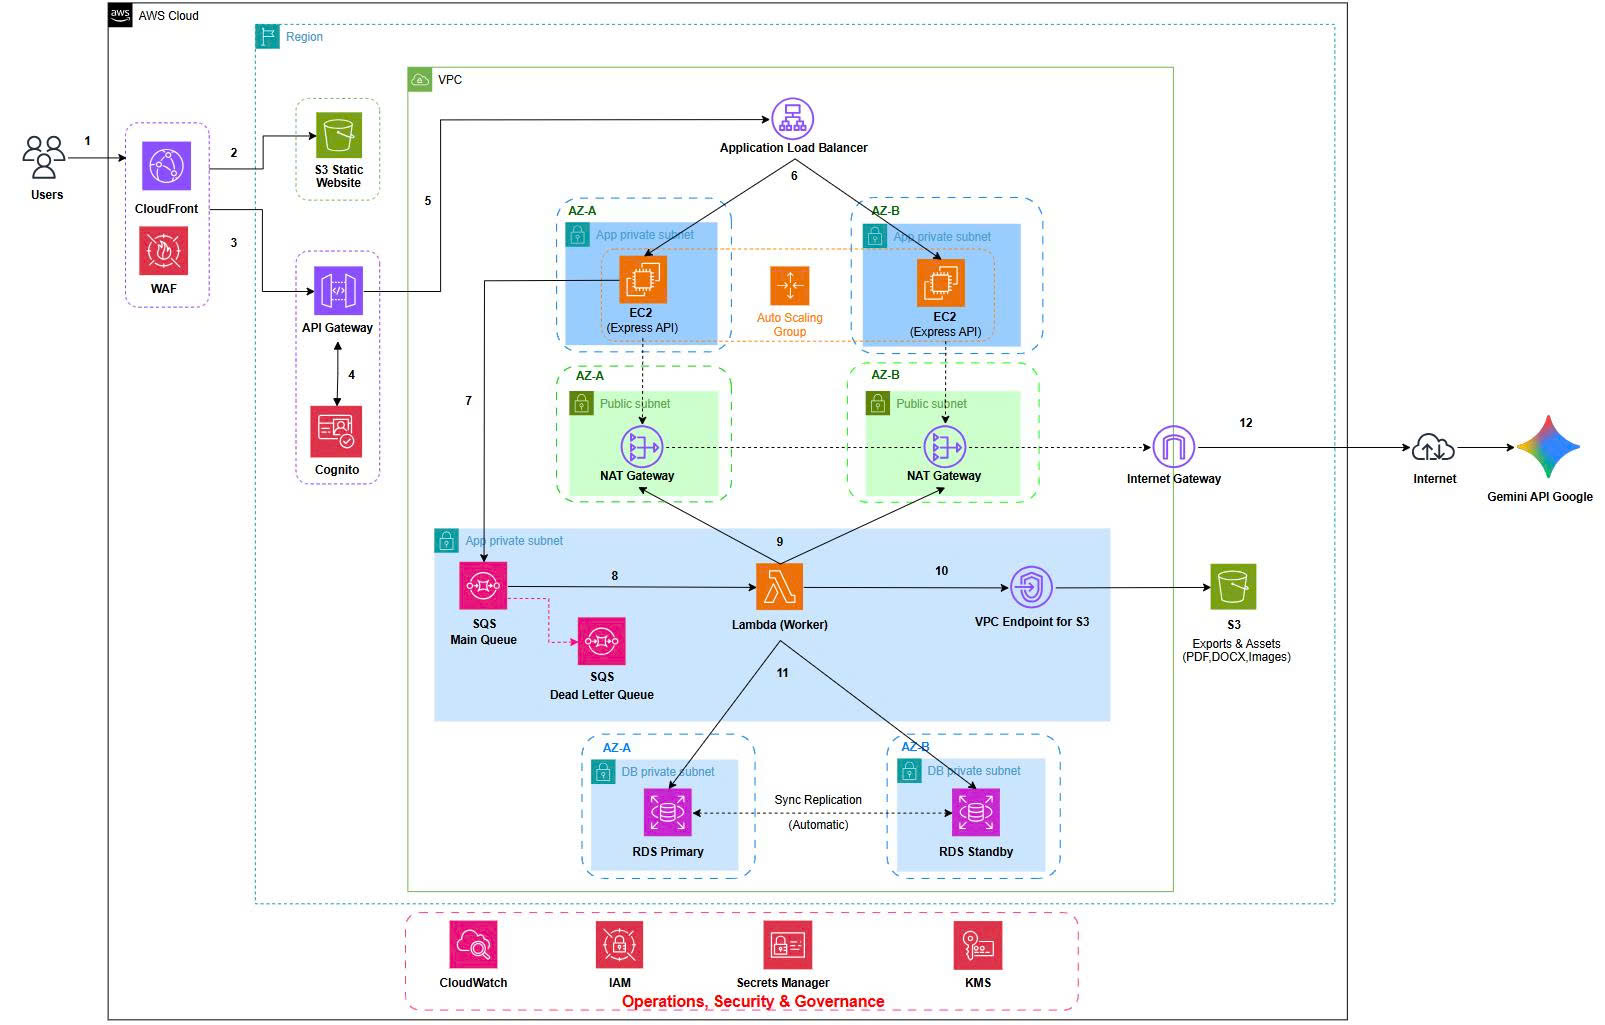
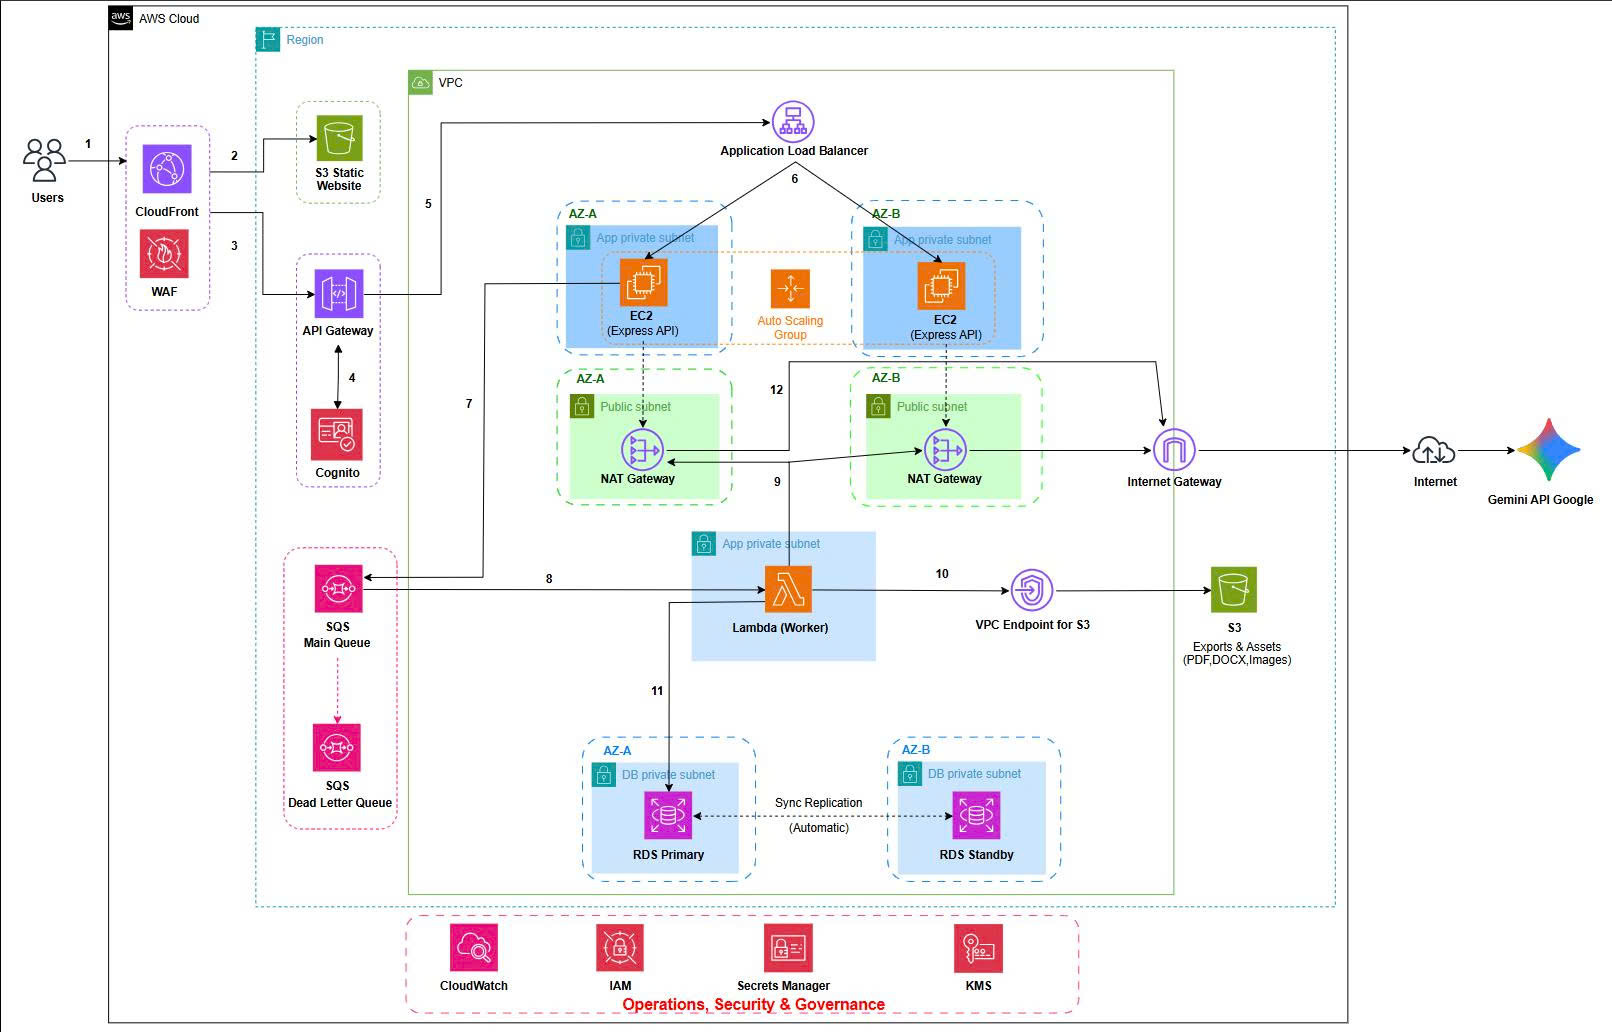
udpate #2

diff --git a/content/_index.md b/content/_index.md
@@ -1,6 +1,6 @@
 ---
 title: "Internship Report"
-date: 2024-01-01
+date: 2026-07-01
 weight: 1
 chapter: false
 ---
@@ -10,25 +10,19 @@ chapter: false
 
 
 ### Student Information:
-&emsp; **Full Name:** Le Duy Khuong
+| Field | Details |
+| --- | --- |
+| Full name | Le Duy Khuong |
+| Phone number | [phone redacted] |
+| Email | <[email redacted]> |
+| University | Ho Chi Minh City University of Technology (HUTECH) |
+| Major | Information Technology |
+| Specialization | Software Engineering |
+| Internship company | Amazon Web Services Viet Nam Company Limited |
+| Internship position | Workforce Bootcamp - First Cloud AI Journey |
+| Internship duration | April 17, 2026 – July 10, 2026 |
 
-&emsp; **Phone Number:** [phone redacted] 
-
-&emsp; **Email:** [email redacted]
-
-&emsp; **University:** Ho Chi Minh City University of Technology
-
-&emsp; **Major:** Information Technology
-
-&emsp; **Class:** 
-
-&emsp; **Internship Company:** Amazon Web Services Viet Nam Company Limited
-
-&emsp; **Internship Position:** Workforce Bootcamp - First Cloud AI Journey
-
-&emsp; **Internship Duration:** From 17/4/2026 to 17/7/2026
-
-![Your profile picture](/images/avatar.png)
+![Your profile picture](/images/avatar.jpeg)
 
 ### Report Content
 

diff --git a/content/_index.vi.md b/content/_index.vi.md
@@ -1,31 +1,27 @@
 ---
 title: "Báo cáo thực tập"
-date: 2024-01-01
+date: 2026-07-01
 weight: 1
 chapter: false
 ---
 
 # Báo cáo thực tập
-### Thông tin sinh viên:
-&emsp; **Họ và tên:** Lê Duy Khương
 
-&emsp; **Số điện thoại:** 971488656
+### Thông tin sinh viên
 
-&emsp; **Email:** [email redacted]
+| Thông tin | Chi tiết |
+| --- | --- |
+| Họ tên | Lê Duy Khương |
+| Số điện thoại | 0971489656 |
+| Email | <[email redacted]> |
+| Trường | Trường Đại Học Công Nghệ TP.HCM (HUTECH) |
+| Ngành | Công nghệ thông tin |
+| Chuyên ngành | Công nghệ phần mềm |
+| Công ty thực tập | Công ty TNHH Amazon Web Services Viet Nam |
+| Vị trí thực tập | Workforce Bootcamp - First Cloud AI Journey |
+| Thời gian thực tập | 17/04/2026 - 10/07/2026 |
 
-&emsp; **Trường:** Trường Đại học Công Nghệ TP.HCM
-
-&emsp; **Ngành:** Công nghệ thông tin
-
-&emsp; **Lớp:** 
-
-&emsp; **Công ty thực tập:** Công ty TNHH Amazon Web Services Viet Nam
-
-&emsp; **Vị trí thực tập:** Workforce Bootcamp - First Cloud AI Journey
-
-&emsp; **Thời gian thực tập:** Từ ngày 17/4/2026 đến ngày 17/7/2026
-
-![Ảnh đại diện của bạn](/images/avatar.png)
+![Ảnh đại diện của bạn](/images/avatar.jpeg)
 
 
 

diff --git a/content/5-Workshop/5.5-Compute/_index.md b/content/5-Workshop/5.5-Compute/_index.md
@@ -17,6 +17,12 @@ The Express backend API is packaged using a **multi-stage** Dockerfile:
 
 The image is built with `--platform linux/amd64` (to avoid arm64/amd64 architecture mismatches when building on Apple Silicon) and pushed to **Amazon ECR** (`quillo-api`, with `scanOnPush` enabled).
 
+#### Why Not Cognito + API Gateway - A Simplification from the Original Plan
+
+The originally planned architecture (see the [2-Proposal](/2-Proposal/)) placed Amazon API Gateway + a Cognito Authorizer in front of an internal ALB. During actual implementation, the team decided to simplify the authentication layer: using **self-managed JWTs (access token + refresh token rotation)** directly inside the Express API, with the **ALB set to internet-facing** to receive traffic directly - removing the API Gateway/Cognito/VPC Link layer entirely.
+
+This was a **deliberate decision made from the start of the project** (unlike the CloudFront case in section 5.7, which was an objective external blocker) - at the scale of a single application, self-managed JWT sufficiently meets the security requirements without the added latency, cost, and operational complexity of an extra API Gateway + Cognito User Pool layer.
+
 #### Application Load Balancer
 
 | Parameter | Value |

diff --git a/content/5-Workshop/5.5-Compute/_index.vi.md b/content/5-Workshop/5.5-Compute/_index.vi.md
@@ -17,6 +17,12 @@ Backend Express API được đóng gói bằng Dockerfile **multi-stage**:
 
 Image build theo `--platform linux/amd64` (tránh lỗi kiến trúc arm64/amd64 khi build trên máy Apple Intel/Silicon), push lên **Amazon ECR** (`quillo-api`, bật `scanOnPush`).
 
+#### Vì sao không dùng Cognito + API Gateway - đơn giản hóa so với kế hoạch ban đầu
+
+Kiến trúc dự tính ban đầu (xem [2-Proposal](/vi/2-Proposal/)) có Amazon API Gateway + Cognito Authorizer đứng trước một Internal ALB. Trong quá trình triển khai thật, nhóm quyết định đơn giản hóa tầng xác thực: dùng **JWT tự quản (access token + refresh token rotation)** ngay trong Express API, và để **ALB internet-facing** nhận traffic trực tiếp - bỏ hẳn lớp API Gateway/Cognito/VPC Link.
+
+Đây là **quyết định chủ động ngay từ đầu dự án** (không phải bị chặn khách quan như trường hợp CloudFront ở mục 5.7) - với quy mô một ứng dụng đơn (single-app), tự quản JWT đủ đáp ứng yêu cầu bảo mật mà không phát sinh thêm độ trễ, chi phí và độ phức tạp vận hành của việc thêm một tầng API Gateway + Cognito User Pool.
+
 #### Application Load Balancer
 
 | Thông số | Giá trị |